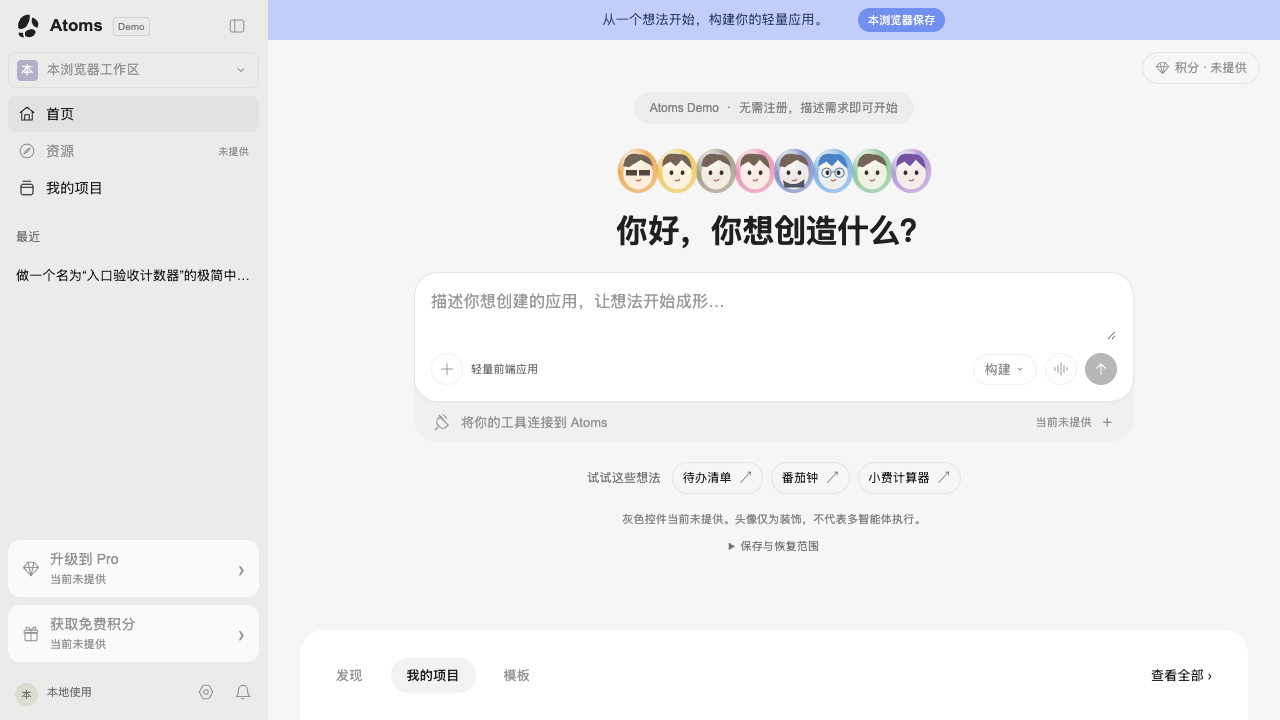
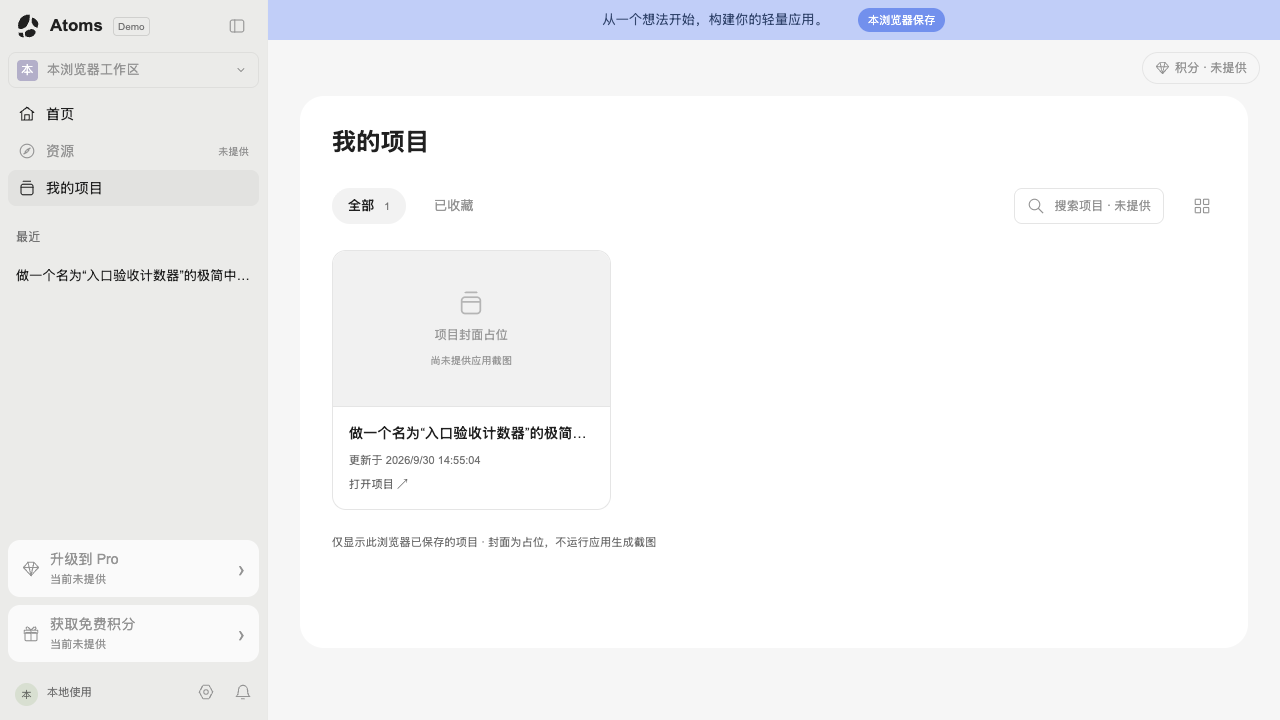
docs: confirm production screenshots against selected entry view

diff --git a/docs/verification/issue-15.md b/docs/verification/issue-15.md
@@ -90,11 +90,11 @@
 
 1. 点击“待办清单”仅填入需求，生成请求0次。随后输入“入口验收计数器”需求，点击发送，真实调用 `deepseek-flash`，耗时 **11741ms**，返回10191字符 HTML，项目保存成功。见 [请求和页面结果](assets/issue-15/real-generation-checks.json)、[模型元信息](assets/issue-15/real-initial.json)、[原始产物](assets/issue-15/real-initial.html)。
 2. 关闭生成阶段浏览器，以同一配置重开首页，进入“我的项目”并点击卡片，恢复同一项目且当前值0。鼠标点击“增加一次”两次，0→1→2；每次等待“应用数据已保存”，刷新后值仍为2。
-3. 从工作台返回此前的“我的项目”区域；在1280×720检查项目列表和首页，从最近项目进入后值仍为2。
+3. 刷新后的工作台返回首页入口；在1280×720检查首页，从最近项目进入后值仍为2。项目网格另经同视口线上回归和只读截图确认。
 4. 完整关闭浏览器，再以同一配置从首页项目卡片重开，值仍为2。鼠标归零，再增加至1并保存，刷新后值1，IndexedDB记录为 `{count:1}`。
 5. 首次生成共1次模型请求，全部操作/恢复阶段新增请求 **0**；未观察到页面运行错误。见 [最终断言](assets/issue-15/real-final-checks.json)、[生成脚本](assets/issue-15/real-generate.mjs)、[操作与重开脚本](assets/issue-15/real-reopen.mjs)。
 
-线上截图：[首页1440](assets/issue-15/live-home-1440.png)、[项目列表1440](assets/issue-15/live-projects-1440.png)、[首页1280](assets/issue-15/live-home-1280.png)、[项目列表1280](assets/issue-15/live-projects-1280.png)、[重开后仍可操作](assets/issue-15/live-reopened.png)。真实项目记录仅在上述浏览器配置中，不意味着其他设备能用该项目查询参数恢复。
+线上截图：[首页1440](assets/issue-15/live-home-1440.png)、[项目列表1440](assets/issue-15/live-projects-1440.png)、[首页1280](assets/issue-15/live-home-1280.png)、[项目列表1280](assets/issue-15/live-projects-1280.png)、[重开后仍可操作](assets/issue-15/live-reopened.png)。真实项目记录仅在上述浏览器配置中，不意味着其他设备能用该项目查询参数恢复。首轮1280项目截图实际停留在首页，已通过[只读补拍脚本](assets/issue-15/live-screenshots.mjs)同时断言侧栏选中项和一级标题后补正；补拍新增模型请求0次。
 
 ## 剩余工作
 
